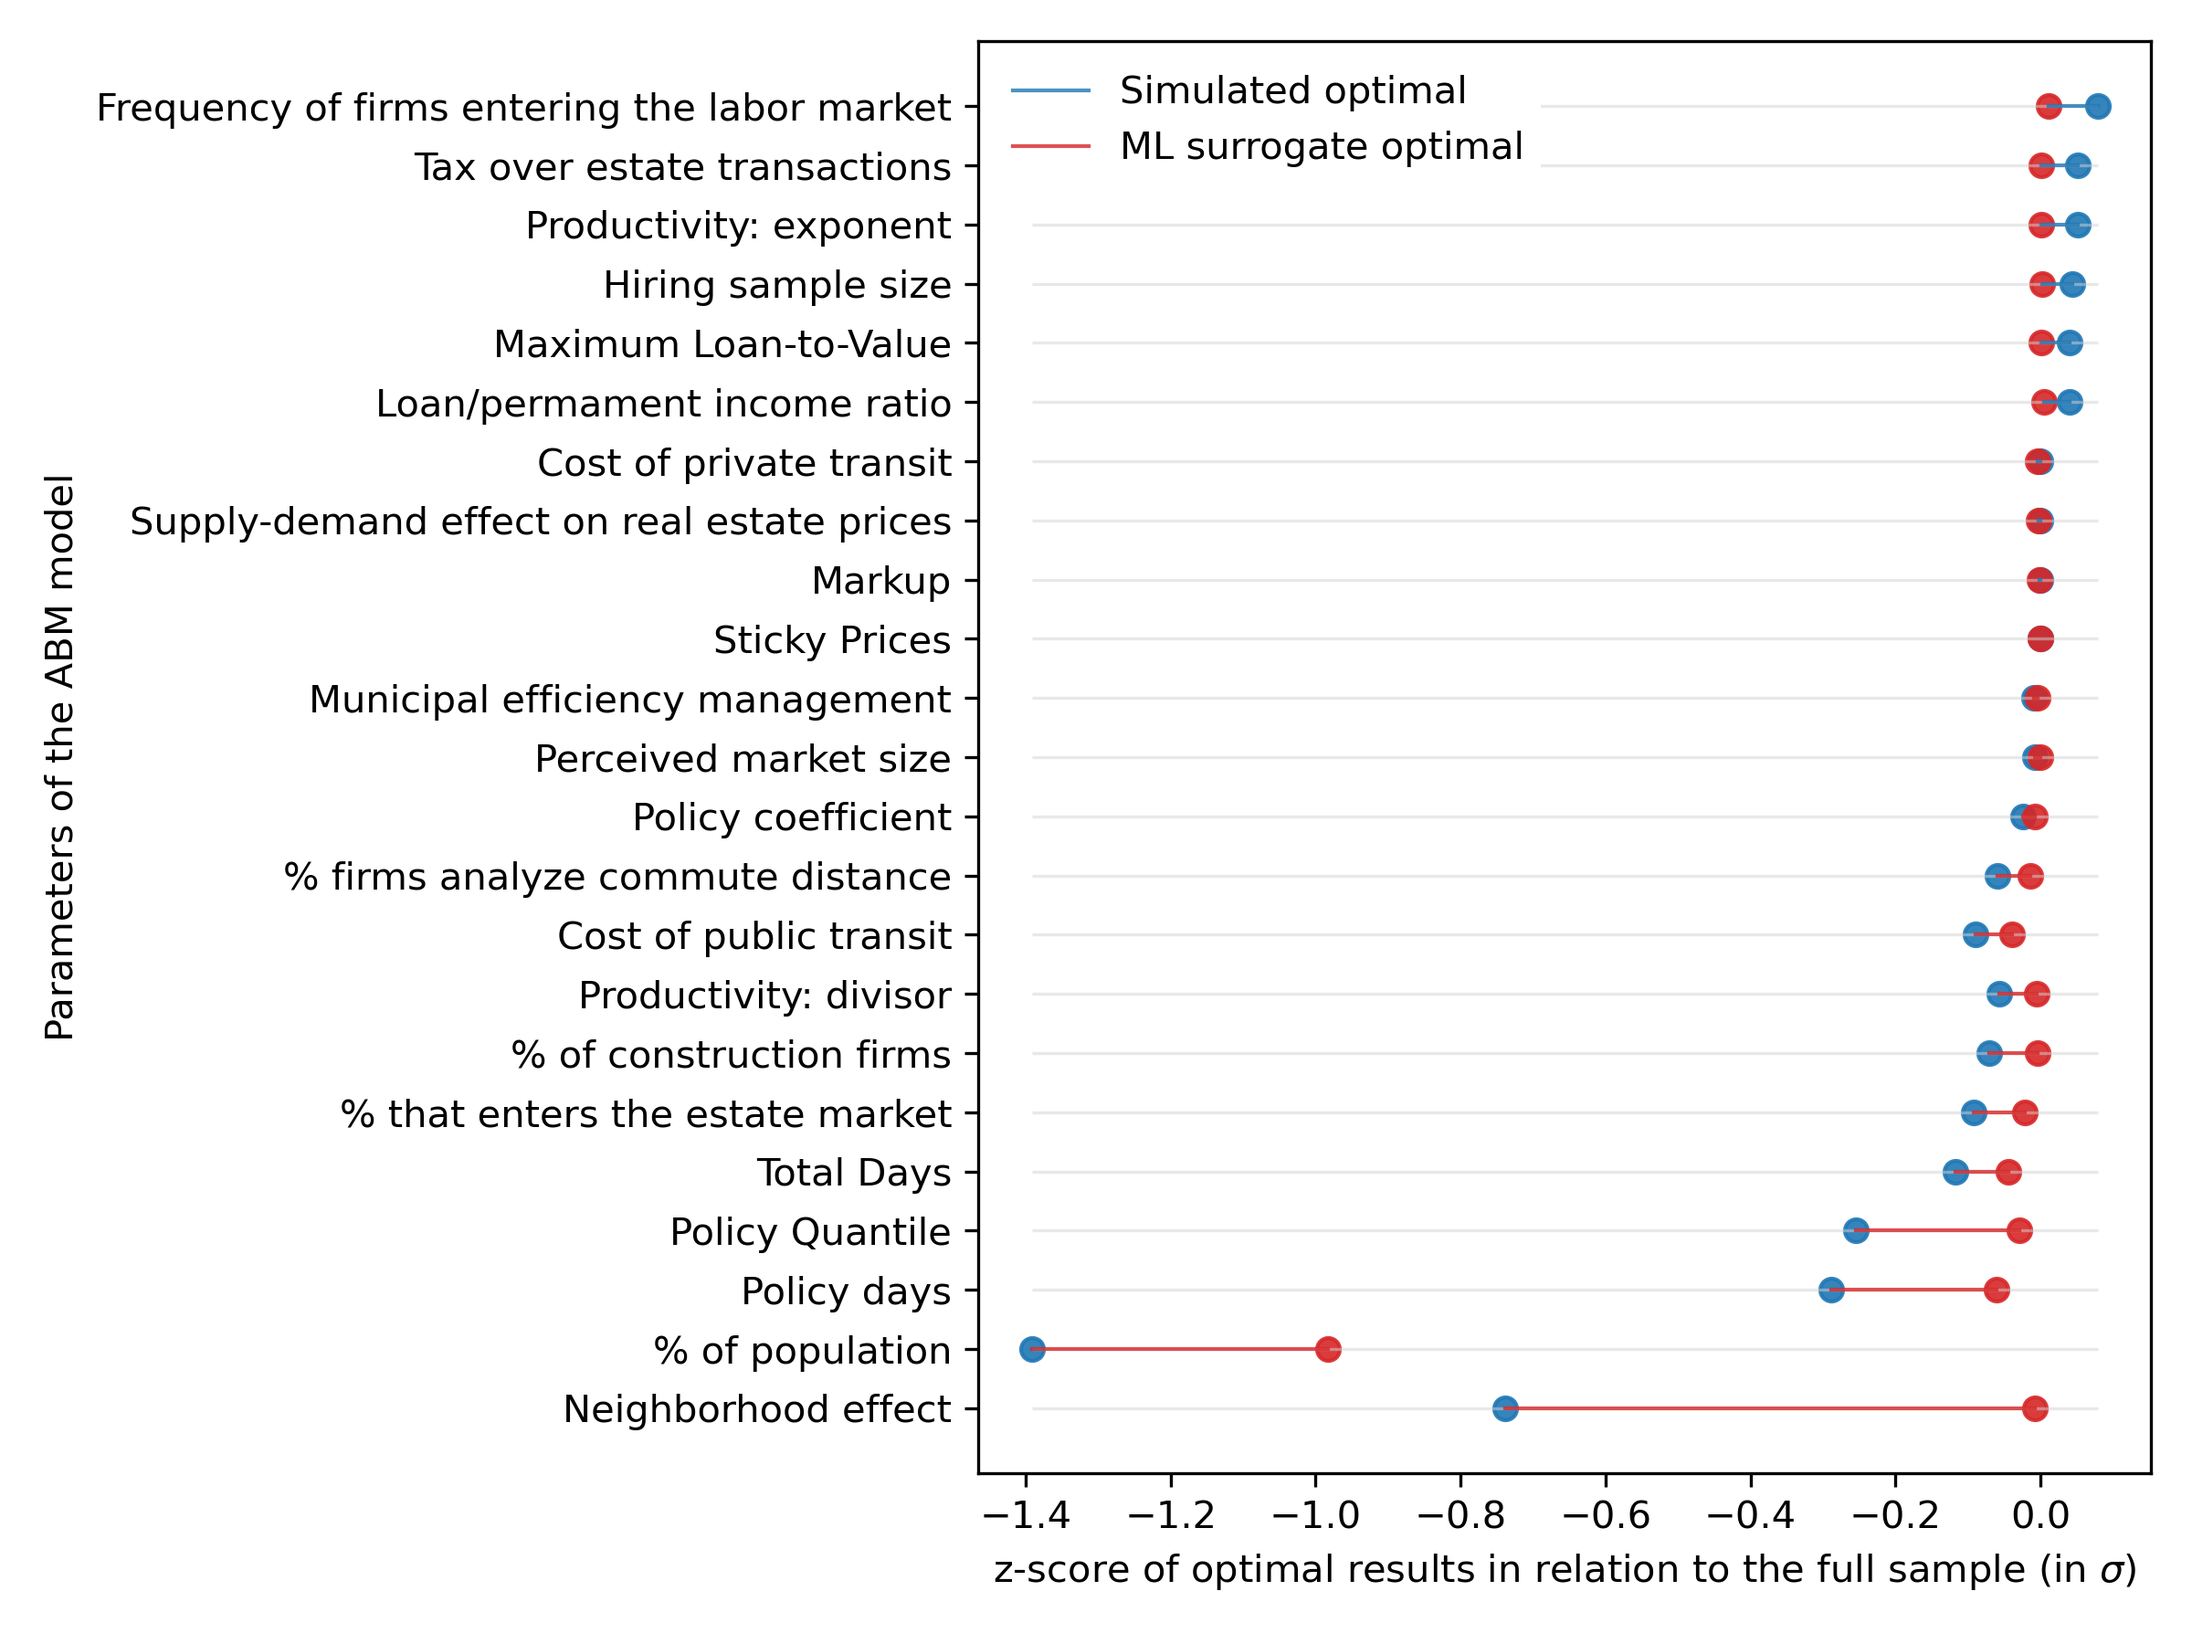
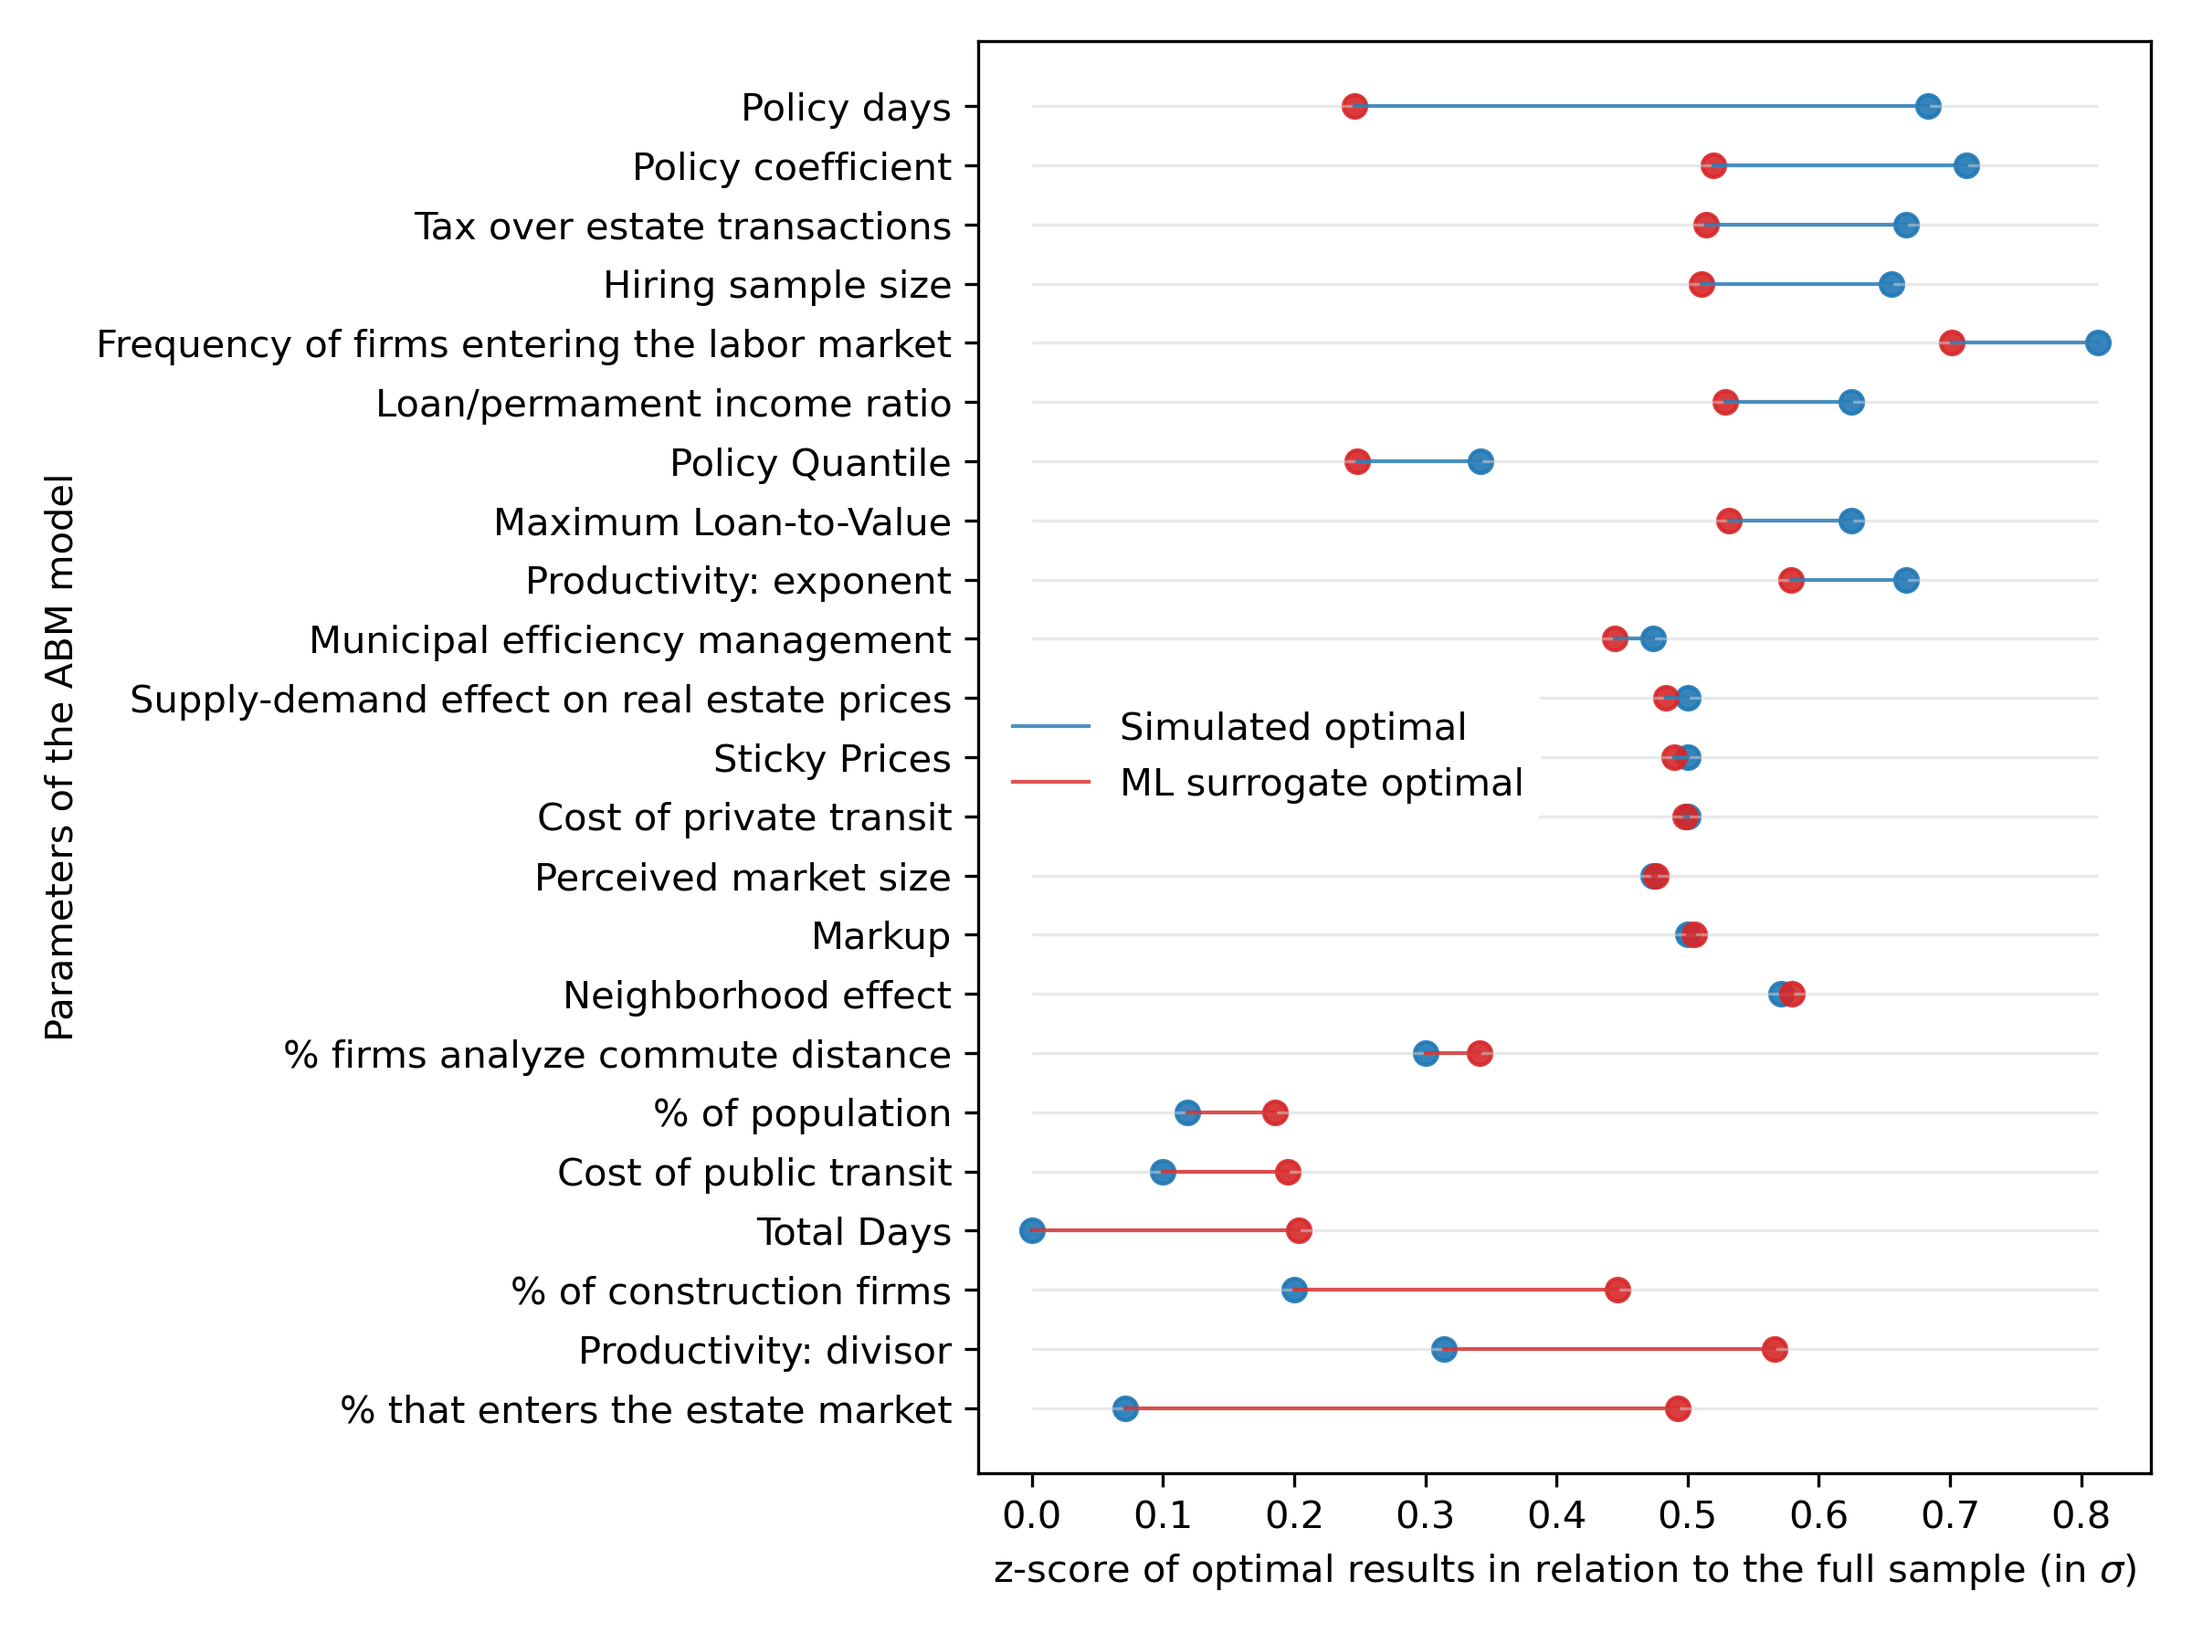
normalized optimals

diff --git a/analysis/plot_z_score_parameters.py b/analysis/plot_z_score_parameters.py
@@ -6,7 +6,7 @@ import groups_cols
 colors = ['tab:blue', 'tab:red']
 
 
-def plotting(data, col1='simulated_optimal', col2='ml_optimal', name='name'):
+def plotting(data, col1='z_simulated_optimal', col2='z_ml_optimal', name='name'):
     lbsl = [groups_cols.abm_params_show[l] for l in data.index.tolist()]
     fig, ax = plt.subplots(figsize=(8, 6))
     for par in data.index:
@@ -34,7 +34,8 @@ def plotting(data, col1='simulated_optimal', col2='ml_optimal', name='name'):
 
 
 if __name__ == '__main__':
-    d = pd.read_csv('../pre_processed_data/parameters_comparison.csv', sep=';')
+    # d = pd.read_csv('../pre_processed_data/parameters_comparison.csv', sep=';')
+    d = pd.read_csv('../pre_processed_data/parameters_norm_optimal.csv', sep=';')
     d.rename(columns={'Unnamed: 0': 'parameters'}, inplace=True)
     d = d.set_index('parameters')
     d = d.sort_values(by='difference')

diff --git a/analysis/counting.py b/analysis/counting.py
@@ -89,6 +89,7 @@ def normalize_and_optimal(simulated, ml):
         print(f'{param}: {ml_optimal_mean:.06f}')
         table.loc[param, 'z_simulated_optimal'] = sim_optimal_mean
         table.loc[param, 'z_ml_optimal'] = ml_optimal_mean
+        table.loc[param, 'difference'] = sim_optimal_mean - ml_optimal_mean
     table.to_csv(f'../pre_processed_data/parameters_norm_optimal.csv', sep=';')
     table.reset_index(inplace=True)
     table['Parameters'] = table['index'].map(groups_cols.abm_params_show)
